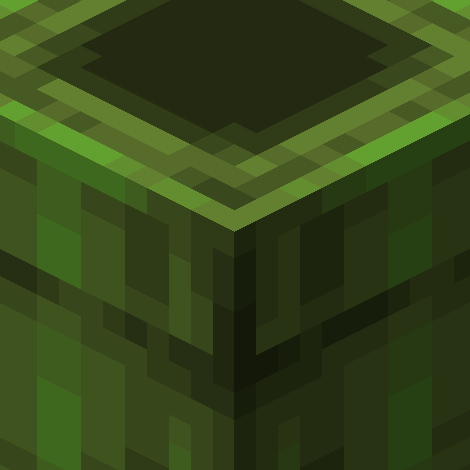
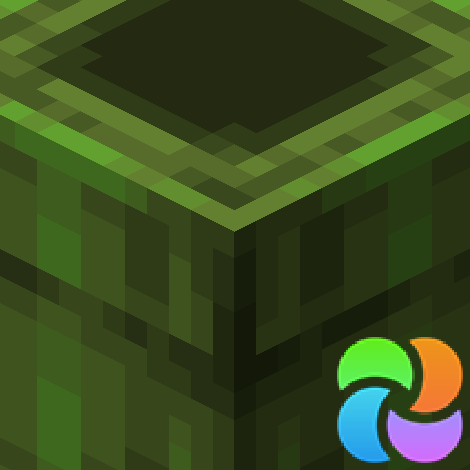
Add fusion check

Changed region(s): [[0.7149, 0.7149, 1.0, 1.0]]

diff --git a/src/main/java/com/wenxin2/marioverse/MarioverseClient.java b/src/main/java/com/wenxin2/marioverse/MarioverseClient.java
@@ -79,6 +79,7 @@ import net.minecraft.world.entity.ai.attributes.DefaultAttributes;
 import net.neoforged.api.distmarker.Dist;
 import net.neoforged.api.distmarker.OnlyIn;
 import net.neoforged.bus.api.SubscribeEvent;
+import net.neoforged.fml.ModList;
 import net.neoforged.fml.common.EventBusSubscriber;
 import net.neoforged.fml.event.lifecycle.FMLClientSetupEvent;
 import net.neoforged.neoforge.client.event.EntityRenderersEvent;
@@ -160,10 +161,12 @@ public class MarioverseClient {
             event.addPackFinders(packLocation, PackType.CLIENT_RESOURCES, packNameDisplay,
                     PackSource.BUILT_IN, false, Pack.Position.TOP);
 
-            packLocation = ResourceLocation.fromNamespaceAndPath(Marioverse.MOD_ID, "resourcepacks/marioverse/classic_pipes_fusion");
-            packNameDisplay = Component.translatable("resource_pack.marioverse.classic_pipes_fusion");
-            event.addPackFinders(packLocation, PackType.CLIENT_RESOURCES, packNameDisplay,
-                    PackSource.BUILT_IN, false, Pack.Position.TOP);
+            if (ModList.get().isLoaded("fusion")) {
+                packLocation = ResourceLocation.fromNamespaceAndPath(Marioverse.MOD_ID, "resourcepacks/marioverse/classic_pipes_fusion");
+                packNameDisplay = Component.translatable("resource_pack.marioverse.classic_pipes_fusion");
+                event.addPackFinders(packLocation, PackType.CLIENT_RESOURCES, packNameDisplay,
+                        PackSource.BUILT_IN, false, Pack.Position.TOP);
+            }
 
             ResourceLocation dynamicPackLocation = ResourceLocation
                     .fromNamespaceAndPath(Marioverse.MOD_ID, "resourcepacks/marioverse/dynamic_client_resources");
